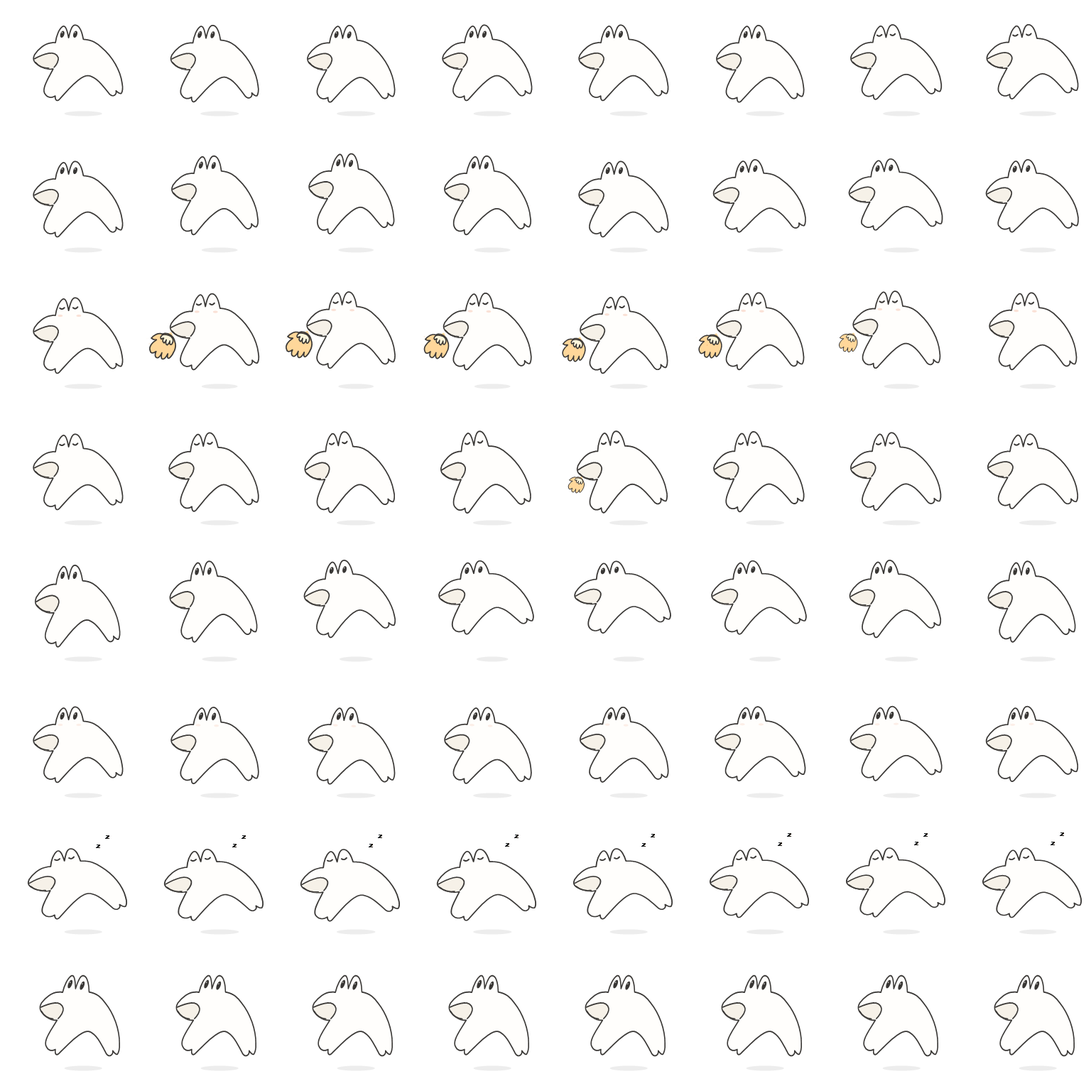
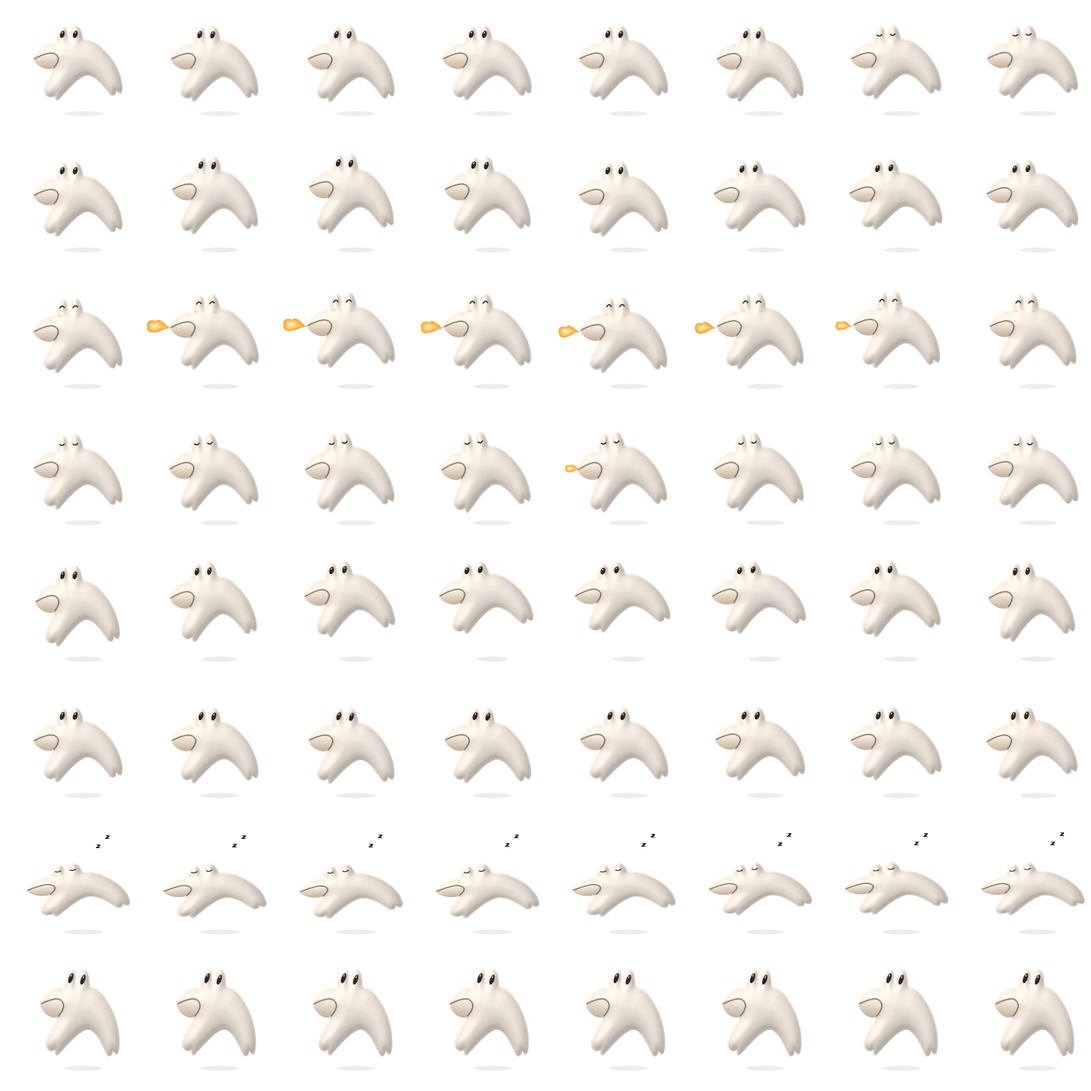
feat: apply ivory clay Sangmon to Windows and Android

diff --git a/windows/Character/ClayMaterial.cs b/windows/Character/ClayMaterial.cs
@@ -1,0 +1,136 @@
+using System;
+using System.Collections.Generic;
+using System.Drawing;
+using System.Drawing.Drawing2D;
+using System.Drawing.Imaging;
+using System.Runtime.InteropServices;
+
+namespace MyDay.Windows.Character
+{
+    // A rounded relief rendered from our native silhouette, not a keyed concept image.
+    // Only Original uses this material. Its small, bounded cache is shared by every view.
+    internal static class ClayMaterial
+    {
+        private const int Width=448, Height=384, Left=96, Top=416;
+        private static readonly Dictionary<int,Bitmap> Bodies=new Dictionary<int,Bitmap>();
+        private static readonly object Gate=new object();
+
+        public static float Step(float toe) { return Math.Max(-3,Math.Min(3,(int)Math.Round(toe/3)))*3; }
+
+        public static void Body(Graphics g,GraphicsPath outline,float toe)
+        {
+            int key=(int)Step(toe);
+            lock(Gate) {
+                Bitmap image;
+                if(!Bodies.TryGetValue(key,out image)) { image=Render(outline); Bodies.Add(key,image); }
+                var saved=g.Save();
+                g.InterpolationMode=InterpolationMode.HighQualityBicubic;
+                g.DrawImage(image,new Rectangle(Left,Top,Width,Height),0,0,Width,Height,GraphicsUnit.Pixel);
+                g.Restore(saved);
+            }
+        }
+
+        private static Bitmap Render(GraphicsPath outline)
+        {
+            int length=Width*Height;
+            byte[] coverage=new byte[length];
+            using(var mask=new Bitmap(Width,Height,PixelFormat.Format32bppArgb)) {
+                using(var g=Graphics.FromImage(mask)) {
+                    g.SmoothingMode=SmoothingMode.AntiAlias; g.TranslateTransform(-Left,-Top);
+                    using(var white=new SolidBrush(Color.White)) g.FillPath(white,outline);
+                }
+                var data=mask.LockBits(new Rectangle(0,0,Width,Height),ImageLockMode.ReadOnly,PixelFormat.Format32bppArgb);
+                try {
+                    byte[] bytes=new byte[data.Stride*Height]; Marshal.Copy(data.Scan0,bytes,0,bytes.Length);
+                    for(int y=0;y<Height;y++) for(int x=0;x<Width;x++) coverage[y*Width+x]=bytes[y*data.Stride+x*4+3];
+                } finally {mask.UnlockBits(data);}
+            }
+            // Distance to the silhouette makes the same soft bevel around the snout,
+            // eye bumps and lower arch. No background color enters the alpha channel.
+            float[] distance=new float[length];
+            for(int i=0;i<length;i++) distance[i]=coverage[i]<128?0:10000;
+            for(int y=1;y<Height-1;y++) for(int x=1;x<Width-1;x++) {
+                int i=y*Width+x;
+                distance[i]=Math.Min(distance[i],Math.Min(Math.Min(distance[i-1]+1,distance[i-Width]+1),Math.Min(distance[i-Width-1]+1.4142f,distance[i-Width+1]+1.4142f)));
+            }
+            for(int y=Height-2;y>0;y--) for(int x=Width-2;x>0;x--) {
+                int i=y*Width+x;
+                distance[i]=Math.Min(distance[i],Math.Min(Math.Min(distance[i+1]+1,distance[i+Width]+1),Math.Min(distance[i+Width+1]+1.4142f,distance[i+Width-1]+1.4142f)));
+            }
+            float[] relief=new float[length];
+            for(int i=0;i<length;i++) relief[i]=(float)(52*Math.Sqrt(1-Math.Exp(-distance[i]/42)));
+            // Smooth normals at the medial axis instead of drawing sharp extruded ridges.
+            relief=Smooth(relief);
+            byte[] pixels=new byte[length*4];
+            for(int y=1;y<Height-1;y++) for(int x=1;x<Width-1;x++) {
+                int i=y*Width+x; if(coverage[i]==0) continue;
+                double nx=(relief[i-1]-relief[i+1])*.65, ny=(relief[i-Width]-relief[i+Width])*.65;
+                double normal=Math.Sqrt(nx*nx+ny*ny+1);
+                double diffuse=Math.Max(0,(-nx*.43-ny*.55+.72)/normal);
+                double softHighlight=Math.Pow(Math.Max(0,(-nx*.23-ny*.30+.925)/normal),18)*.055;
+                double light=.72+.28*diffuse+softHighlight;
+                // Warm clay in shadow; almost white under the upper-left softbox.
+                pixels[i*4]=Channel(232*light);
+                pixels[i*4+1]=Channel(244*light);
+                pixels[i*4+2]=Channel(255*light);
+                pixels[i*4+3]=coverage[i];
+            }
+            var result=new Bitmap(Width,Height,PixelFormat.Format32bppArgb);
+            var target=result.LockBits(new Rectangle(0,0,Width,Height),ImageLockMode.WriteOnly,PixelFormat.Format32bppArgb);
+            try {Marshal.Copy(pixels,0,target.Scan0,pixels.Length);} finally {result.UnlockBits(target);}
+            return result;
+        }
+        private static byte Channel(double value) {return (byte)Math.Max(0,Math.Min(255,(int)Math.Round(value)));}
+
+        private static float[] Smooth(float[] relief)
+        {
+            const int radius=22;
+            float[] kernel=new float[radius*2+1]; float total=0;
+            for(int k=-radius;k<=radius;k++) {kernel[k+radius]=(float)Math.Exp(-k*k/200.0); total+=kernel[k+radius];}
+            for(int k=0;k<kernel.Length;k++) kernel[k]/=total;
+            float[] across=new float[relief.Length],result=new float[relief.Length];
+            for(int y=0;y<Height;y++) for(int x=0;x<Width;x++) {
+                float sum=0;
+                for(int k=-radius;k<=radius;k++) sum+=relief[y*Width+Math.Max(0,Math.Min(Width-1,x+k))]*kernel[k+radius];
+                across[y*Width+x]=sum;
+            }
+            for(int y=0;y<Height;y++) for(int x=0;x<Width;x++) {
+                float sum=0;
+                for(int k=-radius;k<=radius;k++) sum+=across[Math.Max(0,Math.Min(Height-1,y+k))*Width+x]*kernel[k+radius];
+                result[y*Width+x]=sum;
+            }
+            return result;
+        }
+
+        public static void Face(Graphics g,MonsterPose pose)
+        {
+            using(var mouth=new MonsterPainter.Shape().M(120,586).Q(154,567,185,561).C(205,557,222,565,227,579)
+                .C(232,593,220,614,209,625).Q(168,643,133,611).Q(123,601,120,586).Close())
+            using(var fill=new LinearGradientBrush(new Rectangle(120,558,114,78),Color.FromArgb(255,248,235),Color.FromArgb(193,172,151),90)) g.FillPath(fill,mouth.Path);
+            using(var lip=new MonsterPainter.Shape().M(120,586).Q(154,567,185,561).C(205,557,222,565,227,579).C(232,593,220,614,209,625)) {
+                foreach(float width in new[] {12f,8f,4f}) using(var pen=new Pen(Color.FromArgb(width==4?210:25,76,60,48),width) {StartCap=LineCap.Round,EndCap=LineCap.Round}) g.DrawPath(pen,lip.Path);
+            }
+            if(pose.Closed) {
+                using(var eyes=new MonsterPainter.Shape().M(235,480).Q(245,pose.Happy?462:489,256,478).M(295,478).Q(306,pose.Happy?461:488,316,475))
+                using(var pen=new Pen(Color.FromArgb(53,45,40),5.5f) {StartCap=LineCap.Round,EndCap=LineCap.Round}) g.DrawPath(pen,eyes.Path);
+            } else foreach(float x in new[] {246f,305f}) {
+                var saved=g.Save(); g.TranslateTransform(x+pose.LookX*5,476+pose.LookY*4); g.RotateTransform(18);
+                var bounds=new RectangleF(-10,-18*pose.EyeScale,20,34*pose.EyeScale);
+                using(var shadow=new SolidBrush(Color.FromArgb(33,94,68,46))) g.FillEllipse(shadow,-12,-18*pose.EyeScale,25,37*pose.EyeScale);
+                using(var fill=new LinearGradientBrush(bounds,Color.FromArgb(78,65,55),Color.FromArgb(20,18,17),55)) g.FillEllipse(fill,bounds);
+                using(var shine=new SolidBrush(Color.FromArgb(250,255,253,247))) g.FillEllipse(shine,-5,-12*pose.EyeScale,4.5f,8);
+                using(var shine=new SolidBrush(Color.FromArgb(75,255,247,230))) g.FillEllipse(shine,3,6*pose.EyeScale,3,4);
+                g.Restore(saved);
+            }
+        }
+
+        public static void Flame(Graphics g)
+        {
+            // A small round puff with a tapered connection to the existing side lip.
+            using(var puff=new MonsterPainter.Shape().M(121,586).C(100,584,94,563,77,558)
+                .C(64,549,54,553,51,560).C(24,548,8,566,12,585)
+                .C(9,607,34,620,53,609).C(72,611,86,592,101,591).Q(114,590,121,586).Close())
+            using(var light=new PathGradientBrush(puff.Path) {CenterPoint=new PointF(45,583),CenterColor=Color.FromArgb(255,254,181),SurroundColors=new[] {Color.FromArgb(255,156,48)}}) g.FillPath(light,puff.Path);
+        }
+    }
+}

diff --git a/windows/Character/MonsterPainter.cs b/windows/Character/MonsterPainter.cs
@@ -43,7 +43,7 @@ namespace MyDay.Windows.Character
         }
     }
 
-    // Retains the Android sketch outline; Windows poses add stretch, expressions and reactions.
+    // Shared identity and poses; Original uses the approved ivory clay direction.
     public static class MonsterPainter
     {
         public static readonly Color Ink = Color.FromArgb(57, 55, 53);
@@ -94,12 +94,13 @@ namespace MyDay.Windows.Character
             }
             var bodySave = g.Save();
             g.TranslateTransform(275, 730); g.RotateTransform(pose.Tilt+(variant==MonsterVariant.Speedy?-8:0));
-            g.ScaleTransform(pose.WidthScale*(variant==MonsterVariant.Speedy?1.05f:1),pose.BodyScale*(variant==MonsterVariant.Speedy?.9f:1)); g.TranslateTransform(-275, -730);
+            g.ScaleTransform(pose.WidthScale*(variant==MonsterVariant.Speedy?1.05f:variant==MonsterVariant.Original && pose.Sleeping?1.06f:1),
+                pose.BodyScale*(variant==MonsterVariant.Speedy?.9f:variant==MonsterVariant.Original?(pose.Sleeping?.76f:pose.Held?1.1f:1):1)); g.TranslateTransform(-275, -730);
             DrawBehind(g,pose,variant);
             MonsterAdditions.DrawBehind(g,pose,variant);
             GameSkins.DrawBehind(g,pose,variant);
             RewardSkins.DrawBehind(g,pose,variant);
-            float l = pose.Toe, r = -pose.Toe;
+            float l = variant==MonsterVariant.Original?ClayMaterial.Step(pose.Toe):pose.Toe, r = -l;
             if(variant==MonsterVariant.Puffy) {
                 using(var body=new Shape().M(215,513).C(219,482,231,451,248,439).C(261,433,268,455,275,491)
                     .C(281,466,288,430,307,433).C(326,435,337,469,342,498).C(425,500,509,566,507,647)
@@ -123,11 +124,14 @@ namespace MyDay.Windows.Character
                 .C(357,654,334,672,318,684).C(287,708,260,742,238,765+l).C(225,783+l,213,778+l,214,755+l)
                 .C(196,767+l,177,761+l,170,749+l).C(154,732,169,702,180,679).L(205,632)
                 .C(181,637,150,627,133,612).C(112,598,113,582,120,568).C(137,542,165,519,190,515).Q(207,511,215,513).Close()) {
-                    if(!GameSkins.PaintBody(g,body,pose,variant) && !RewardSkins.PaintBody(g,body,variant)) Fill(g,body,Body);
+                    if(variant==MonsterVariant.Original) ClayMaterial.Body(g,body.Path,l);
+                    else if(!GameSkins.PaintBody(g,body,pose,variant) && !RewardSkins.PaintBody(g,body,variant)) Fill(g,body,Body);
                 }
             }
             MonsterAdditions.DrawFront(g,pose,variant);
             RewardSkins.DrawFront(g,pose,variant);
+            if(variant==MonsterVariant.Original) ClayMaterial.Face(g,pose);
+            else {
             using (var mouth = new Shape().M(120,586).Q(154,567,185,561).C(205,557,222,565,227,579)
                 .C(232,593,220,614,209,625).Q(168,643,133,611).Q(123,601,120,586).Close()) Fill(g, mouth, GameSkins.IsGame(variant)?GameSkins.Light(variant):Mouth, false);
             using (var lip = new Shape().M(120,586).Q(154,567,185,561).C(205,557,222,565,227,579)
@@ -152,6 +156,7 @@ namespace MyDay.Windows.Character
                 if(variant!=MonsterVariant.Dazed) using (var shine = new SolidBrush(Color.FromArgb(245,Body))) g.FillEllipse(shine,-5,-11,4,6);
                 g.Restore(eye);
             }
+            }
             if(pose.Curious || pose.Happy) {
                 using(var blush=new SolidBrush(Color.FromArgb(pose.Happy?75:40,238,156,122))) {
                     g.FillEllipse(blush,226,509,22,11); g.FillEllipse(blush,310,509,22,11);
@@ -163,7 +168,10 @@ namespace MyDay.Windows.Character
             if (!pose.Held && pose.FireStrength>.01f)
             {
                 float size = .42f + pose.FireStrength*(.47f + pose.Pulse*.13f);
-                g.TranslateTransform(136,636); g.ScaleTransform(size,size); g.RotateTransform((pose.Pulse-.5f)*7); g.TranslateTransform(-136,-636);
+                float anchorX=variant==MonsterVariant.Original?120:136, anchorY=variant==MonsterVariant.Original?586:636;
+                g.TranslateTransform(anchorX,anchorY); g.ScaleTransform(size,size); g.RotateTransform((pose.Pulse-.5f)*7); g.TranslateTransform(-anchorX,-anchorY);
+                if(variant==MonsterVariant.Original) ClayMaterial.Flame(g);
+                else {
                 using (var stream = new Shape().M(121,607).Q(103,611,106,624).L(133,639).Q(129,620,121,607).Close()) Fill(g,stream,Fire,false);
                 using (var fire = new Shape().M(130,630).C(115,613,95,609,81,617).C(63,610,42,625,32,638).Q(40,646,56,644)
                     .C(37,658,22,677,30,695).C(33,708,43,708,57,696).C(51,711,52,724,63,725).C(73,726,82,706,83,701)
@@ -172,10 +180,11 @@ namespace MyDay.Windows.Character
                 using (var core = new Shape().M(83,620).Q(68,632,77,640).Q(84,635,88,635).Q(79,650,91,657)
                     .Q(98,650,100,642).Q(95,664,106,665).Q(116,653,116,646).Q(115,669,125,661)
                     .Q(139,640,119,625).Q(100,616,83,620).Close()) Fill(g,core,Core);
+                }
                 if(pose.Happy && pose.FireStrength>0) {
                     for(int i=0;i<5;i++) {
                         float phase=(pose.Phase*1.7f+i*.19f)%1;
-                        float px=70-phase*65,py=641+(float)Math.Sin(phase*6+i)*22;
+                        float px=(variant==MonsterVariant.Original?45:70)-phase*65,py=(variant==MonsterVariant.Original?586:641)+(float)Math.Sin(phase*6+i)*22;
                         using(var ember=new SolidBrush(Color.FromArgb((int)(170*(1-phase)*pose.FireStrength),i%2==0?Fire:Color.FromArgb(237,160,91))))
                             g.FillEllipse(ember,px,py,5+phase*3,5+phase*3);
                     }

diff --git a/windows/ClayPreview.cs b/windows/ClayPreview.cs
@@ -1,0 +1,40 @@
+using System;
+using System.Drawing;
+using System.Drawing.Imaging;
+using System.IO;
+using MyDay.Windows.Character;
+using MyDay.Windows.Core;
+
+namespace MyDay.Windows
+{
+    internal static partial class Tests
+    {
+        // Rendered by the shipped painter, so the preview is an implementation proof.
+        public static void ClayPreview(string directory)
+        {
+            Directory.CreateDirectory(directory);
+            var activities=new[] {PetActivity.Rest,PetActivity.Walk,PetActivity.Hop,PetActivity.Look,PetActivity.Fire,PetActivity.Yawn,PetActivity.Sleep,PetActivity.Drag,PetActivity.Rest};
+            var labels=new[] {"숨 쉬기","작은 걸음","점프","두리번","터치 불꽃","하품 · 옆입 유지","졸기","드래그","장비 착용"};
+            var ages=new[] {0.0,.2,.325,.4,.25,.4,1.0,.2,.2};
+            using(var board=new Bitmap(960,900)) {
+                using(var g=Graphics.FromImage(board))
+                using(var font=new Font("맑은 고딕",14,FontStyle.Bold,GraphicsUnit.Pixel)) {
+                    g.Clear(Color.FromArgb(237,234,228));
+                    for(int i=0;i<activities.Length;i++) {
+                        int x=i%3*320,y=i/3*300; bool dark=i==6 || i==8;
+                        using(var brush=new SolidBrush(dark?Color.FromArgb(34,39,48):Color.FromArgb(250,248,243))) g.FillRectangle(brush,x+6,y+6,308,288);
+                        var pose=MonsterPose.ForActivity(ages[i],activities[i],ages[i],0,0);
+                        var equipment=i==8?new SangmonEquipment {WeaponId="frost-sword",CharmId="astral-orb"}:null;
+                        MonsterPainter.Draw(g,new Rectangle(x+12,y+25,296,226),pose,true,MonsterVariant.Original,equipment);
+                        using(var brush=new SolidBrush(dark?Color.FromArgb(234,231,225):Color.FromArgb(84,75,67))) g.DrawString(labels[i],font,brush,x+20,y+266);
+                        using(var sprite=new Bitmap(320,280)) {
+                            using(var sg=Graphics.FromImage(sprite)) MonsterPainter.Draw(sg,new Rectangle(12,18,296,226),pose,true,MonsterVariant.Original,equipment);
+                            sprite.Save(Path.Combine(directory,"pose-"+i+".png"),ImageFormat.Png);
+                        }
+                    }
+                }
+                board.Save(Path.Combine(directory,"sangmon-clay-applied-v1.png"),ImageFormat.Png);
+            }
+        }
+    }
+}

diff --git a/windows/ClayTests.cs b/windows/ClayTests.cs
@@ -1,0 +1,32 @@
+using System.Drawing;
+using MyDay.Windows.Character;
+
+namespace MyDay.Windows
+{
+    internal static partial class Tests
+    {
+        private static void RunClayTests()
+        {
+            using(var idle=new Bitmap(260,240))
+            using(var yawn=new Bitmap(260,240)) {
+                using(var g=Graphics.FromImage(idle)) {g.TranslateTransform(0,-420); ClayMaterial.Face(g,MonsterPose.ForActivity(0,PetActivity.Rest,0,0,0));}
+                using(var g=Graphics.FromImage(yawn)) {g.TranslateTransform(0,-420); ClayMaterial.Face(g,MonsterPose.ForActivity(.8,PetActivity.Yawn,.8,0,0));}
+                bool sameLip=true,eyesChanged=false;
+                for(int y=0;y<240;y++) for(int x=0;x<260;x++) {
+                    if(y>=125) sameLip&=idle.GetPixel(x,y)==yawn.GetPixel(x,y);
+                    else eyesChanged|=idle.GetPixel(x,y)!=yawn.GetPixel(x,y);
+                }
+                Check(sameLip && eyesChanged,"Clay yawn closes the eyes while retaining the exact side lip with no new mouth");
+            }
+            using(var image=new Bitmap(320,280)) {
+                using(var g=Graphics.FromImage(image)) MonsterPainter.Draw(g,new Rectangle(12,18,296,226),MonsterPose.ForActivity(0,PetActivity.Rest,0,0,0),true);
+                int min=255,max=0,body=0;
+                for(int y=0;y<280;y++) for(int x=0;x<320;x++) {
+                    var pixel=image.GetPixel(x,y);
+                    if(pixel.A==255 && pixel.R>180 && pixel.G>160 && pixel.B>150) {min=System.Math.Min(min,pixel.R);max=System.Math.Max(max,pixel.R);body++;}
+                }
+                Check(body>8000 && max-min>35 && image.GetPixel(0,0).A==0 && image.GetPixel(200,192).A==0,"Clay body has rounded light and shadow, transparent margins and an open lower arch");
+            }
+        }
+    }
+}

diff --git a/windows/Tests.cs b/windows/Tests.cs
@@ -53,6 +53,7 @@ namespace MyDay.Windows
                 RunSavedLayoutTests(directory);
                 RunGrowthTests(directory);
                 RunItemTests(directory);
+                RunClayTests();
                 var layout=DiaryEntry.FirstPage(); layout.Blocks[0].Text="이동해도 그대로"; layout.Blocks[1].Checked=true;
                 var originalIds=layout.Blocks.Select(b=>b.Id).ToArray(); DiaryLayout.EnableFree(layout,800);
                 Check(layout.LayoutMode=="free" && layout.Blocks.Select(b=>b.Id).SequenceEqual(originalIds) && layout.Blocks[0].Text=="이동해도 그대로" && layout.Blocks[1].Checked,"Entering free placement retains block IDs, text and checks");

diff --git a/windows/Program.cs b/windows/Program.cs
@@ -31,6 +31,10 @@ namespace MyDay.Windows
             {
                 try { Tests.Preview(Path.GetFullPath(args[1])); return 0; } catch(Exception ex) { Console.Error.WriteLine(ex); return 1; }
             }
+            if(args.Length==2 && args[0]=="--clay-preview")
+            {
+                try { Tests.ClayPreview(Path.GetFullPath(args[1])); return 0; } catch(Exception ex) { Console.Error.WriteLine(ex); return 1; }
+            }
             if(args.Length==2 && args[0]=="--variant-preview")
             {
                 try { Tests.VariantPreview(Path.GetFullPath(args[1])); return 0; } catch(Exception ex) { Console.Error.WriteLine(ex); return 1; }

diff --git a/previews/applied/sangmon-clay/README.md b/previews/applied/sangmon-clay/README.md
@@ -1,0 +1,40 @@
+# 기본 상몬: 3D풍 클레이 외형 첫 적용
+
+[승인된 시안](../../concepts/sangmon-3d/README.md)을 바탕으로 **실제 앱 렌더러**에서 그린 결과입니다. 시안 배경을 잘라 붙이지 않고, 기존 상몬 윤곽을 투명한 클레이 음영으로 렌더링합니다. 실제 3D 메시·리깅 파일이 아닌 2D 입체 표현입니다.
+
+![실제 앱의 기본 상몬](sangmon-clay-applied-v1.png)
+
+왼쪽부터 숨 쉬기·걷기·점프 / 두리번·터치 불꽃·하품 / 졸기·드래그·장비 착용입니다. `pose-0.png`부터 `pose-8.png`까지는 같은 결과의 투명 PNG입니다. 어두운 칸에서도 배경 테두리 없이 표시됩니다. 마지막 칸은 기존 빙결 장검·별빛 구슬을 함께 장착한 예입니다.
+
+## 적용 범위
+
+- **기본 상몬(original)**: 아이보리색 클레이 명암, 반짝이는 눈, 가는 옆입, 둥근 짧은 불꽃.
+- Windows: 일기 안 미리보기·선택 화면·투명 바탕화면 캐릭터에 공통 적용.
+- Android: 기본 상몬 썸네일과 8가지 행동 × 8프레임 아틀라스를 다시 생성. 앱·위젯·라이브 배경화면이 같은 자산을 사용.
+- 걷기·점프·눈 깜박임·두리번·졸기·드래그와 기존 장비·성장 설정 유지. 하품에 새 입을 추가하지 않으며 평소에는 불을 뿜지 않음.
+- 나머지 63종은 기존 디자인. 저장 ID·일기 데이터·선택 목록 수는 변경하지 않음.
+
+기존 Releases의 EXE/APK는 이전 버전입니다. 이 적용본은 `codex/windows-app` 소스를 다시 빌드하거나 해당 변경의 CI artifact에서 받습니다.
+
+## 어느 파일을 수정하나요?
+
+| 변경할 부분 | 원본 |
+| --- | --- |
+| 기본 상몬 재질·조명·눈·옆입·작은 불꽃 | [ClayMaterial.cs](../../../windows/Character/ClayMaterial.cs) |
+| 공통 몸 윤곽·포즈·재질 연결 | [MonsterPainter.cs](../../../windows/Character/MonsterPainter.cs) |
+| 행동 전환·불꽃 반응 시간 | [PetBehavior.cs](../../../windows/Character/PetBehavior.cs) |
+| 이 미리보기 생성 | [ClayPreview.cs](../../../windows/ClayPreview.cs) |
+| Android PNG 다시 생성 | [export-android-assets.ps1](../../../tools/export-android-assets.ps1) |
+
+클레이 몸은 윤곽에서 거리·높이·법선을 계산하고 부드러운 조명으로 칠합니다. 몸 7프레임만 프로세스 수명 동안 캐시하고, 눈·기울기·늘어남·장비는 기존 렌더러에서 처리합니다. 이미지 생성 도구로 만든 시안을 참고했으며 **이 폴더의 적용 이미지는 C# 코드로 생성**했습니다.
+
+```powershell
+./windows/build.ps1
+$preview = Join-Path $pwd 'previews/applied/sangmon-clay'
+Start-Process windows/bin/MyDay.exe -ArgumentList @('--clay-preview', ('"' + $preview + '"')) -Wait -WindowStyle Hidden
+./tools/export-android-assets.ps1
+```
+
+## 검증
+
+Windows 빌드·164개 검사·실제 UI/투명 창 smoke 검사 통과. Android debug APK·테스트 APK 빌드·lint·JVM 검사 통과. 아틀라스 64프레임 모두 셀 경계 알파가 0임을 확인했습니다. 이번 외형은 실제 갤럭시 기기에서 확인하지 않았습니다.

diff --git a/README.md b/README.md
@@ -6,6 +6,8 @@
 
 갤럭시·Windows용 커스터마이즈 일기 앱입니다. 두 버전에서 사진과 일기 블록을 자유롭게 배치하고 상몬 64종을 키우며 검·보주 12종을 장착합니다. Android는 손가락 조작과 짧은 햅틱, Windows는 바탕화면 캐릭터를 제공합니다. MIT 라이선스로 공개하며 5명이 화면·저장·캐릭터·통합·검증을 나눠 개발합니다.
 
+**새 캐릭터 적용:** [기본 상몬의 3D풍 클레이 외형·실제 렌더링·수정 파일 안내](previews/applied/sangmon-clay/README.md). 기본 상몬에 먼저 적용했으며 Windows와 Android 자산에 함께 반영했습니다. 기존 Releases 파일에는 아직 포함되지 않습니다.
+
 ## 어떤 파일을 수정하면 되나요?
 
 **아래에서 기능을 고르고, 작업할 플랫폼의 파일 이름을 클릭하세요.** 화면·저장·캐릭터를 나눠 두었으므로 기능에 맞는 파일부터 수정합니다.
@@ -31,7 +33,7 @@
 
 전체 설명과 수정 예는 [기능별 수정 가이드](docs/EDITING-GUIDE.md), 역할과 작업 순서는 [공동 작업 안내](CONTRIBUTING.md)에 있습니다. Android의 생성된 PNG·catalog.json·SangmonIdentity.kt는 직접 고치지 않고 원본에서 다시 생성합니다. 저장 ID를 바꾸는 작업은 기록 호환성도 함께 확인합니다.
 
-> **최신 코드 위치:** [codex/windows-app 브랜치](https://github.com/parkhookjung-debug/myday-diary/tree/codex/windows-app). 기본 main 화면에서 왔다면 이 링크로 이동하세요. [PR #7](https://github.com/parkhookjung-debug/myday-diary/pull/7)이 팀원 리뷰 승인 1개를 받은 뒤 main에 반영됩니다.
+> **최신 코드 위치:** [codex/windows-app 브랜치](https://github.com/parkhookjung-debug/myday-diary/tree/codex/windows-app). 기본 main 화면에서 왔다면 이 링크로 이동하세요. 통합 변경 내역은 [PR #7](https://github.com/parkhookjung-debug/myday-diary/pull/7)에서 확인합니다. 현재 main의 필수 리뷰·필수 상태 검사 제한은 해제되어 있습니다.
 
 ## 실행 파일 받기
 

diff --git a/docs/EDITING-GUIDE.md b/docs/EDITING-GUIDE.md
@@ -37,6 +37,7 @@
 | 바꾸고 싶은 것 | 먼저 열 파일 | 수정하는 부분 |
 | --- | --- | --- |
 | 상몬의 기본 몸·눈·입·포즈 | [MonsterPainter.cs](../windows/Character/MonsterPainter.cs) | 공통 몸 경로와 `MonsterPose` |
+| 기본 상몬의 클레이 재질·눈·옆입·작은 불꽃 | [ClayMaterial.cs](../windows/Character/ClayMaterial.cs) | 입체 음영과 얼굴. [실제 적용본](../previews/applied/sangmon-clay/README.md) 확인 후 Android 자산도 다시 생성 |
 | 꼬리·귀·날개·목도리 등 추가 외형 | [MonsterAdditions.cs](../windows/Character/MonsterAdditions.cs) | 몸 뒤/앞에 덧붙이는 그림 |
 | RPG 속성 외형의 색·명암·효과 | [GameSkins.cs](../windows/Character/GameSkins.cs) | 화염·빙결 등 몸 재질 |
 | 캐릭터 이름·저장 ID·이동 속도 | [MonsterVariants.cs](../windows/Character/MonsterVariants.cs) | `Names`, `Ids`, `SpeedFactor` |

diff --git a/previews/concepts/sangmon-3d/README.md b/previews/concepts/sangmon-3d/README.md
@@ -20,6 +20,7 @@
 
 3D처럼 렌더링한 **2D 키포즈 이미지**입니다. 실제 3D 메시·리깅 파일이나 연속 애니메이션 프레임은 아닙니다. 앱에 바로 넣을 투명 스프라이트 시트로 취급하지 않습니다. 투명 출력의 경계 품질이 충분하지 않아, 이 버전은 외형 검토용의 불투명 배경 시트로 정리했습니다. 앱용 연속 프레임·투명 경계·작은 크기에서의 가독성은 별도 작업으로 이어갑니다.
 
-- 정체성 기준: [원래 상몬](../../../app/src/main/assets/portraits/original.png)
+- 정체성 기준: [시안 제작 당시의 원래 상몬](sangmon-sketch-reference-v1.png)
+- 다음 단계: [기본 상몬 클레이 외형 실제 앱 적용본](../../applied/sangmon-clay/README.md)
 - 제작 사양·프롬프트: [PROMPTS.md](PROMPTS.md)
 - 폴더 안내: [미리보기 목록](../../README.md)

diff --git a/previews/concepts/sangmon-3d/PROMPTS.md b/previews/concepts/sangmon-3d/PROMPTS.md
@@ -2,7 +2,7 @@
 
 사용 도구: 기본 `image_gen` 도구. CLI/API fallback은 사용하지 않았습니다.
 
-원본 정체성은 저장소의 `app/src/main/assets/portraits/original.png`를 사용했습니다. 사용자가 제공한 설명 이미지는 데스크톱 펫의 작고 단순한 3D 스타일과 자연스러운 동작 방향을 참고하는 용도입니다.
+원본 정체성은 제작 당시 저장소의 `app/src/main/assets/portraits/original.png`를 사용했습니다. 이후 앱 자산이 갱신되어 당시 파일을 [sangmon-sketch-reference-v1.png](sangmon-sketch-reference-v1.png)에 그대로 보존했습니다. 사용자가 제공한 설명 이미지는 데스크톱 펫의 작고 단순한 3D 스타일과 자연스러운 동작 방향을 참고하는 용도입니다.
 
 ## 캐릭터 기준
 

diff --git a/windows/Character/README.md b/windows/Character/README.md
@@ -7,6 +7,7 @@
 | 바꾸려는 것 | 파일 | 역할 |
 | --- | --- | --- |
 | 상몬 기본 몸·눈·입·포즈 | [MonsterPainter.cs](MonsterPainter.cs) | 공통 몸 경로와 움직이는 포즈 |
+| 기본 상몬의 3D풍 클레이 음영·얼굴·작은 불꽃 | [ClayMaterial.cs](ClayMaterial.cs) | 기본 original 외형만 담당, [실제 적용 미리보기](../../previews/applied/sangmon-clay/README.md) |
 | 이름·저장 ID·이동 속도 | [MonsterVariants.cs](MonsterVariants.cs) | 64종 외형 식별 |
 | 귀·꼬리·날개 등 추가 장식 | [MonsterAdditions.cs](MonsterAdditions.cs) | 뒤/앞 레이어 |
 | RPG 속성의 몸 재질 | [GameSkins.cs](GameSkins.cs) | 8종 속성 팔레트·명암·효과 |
